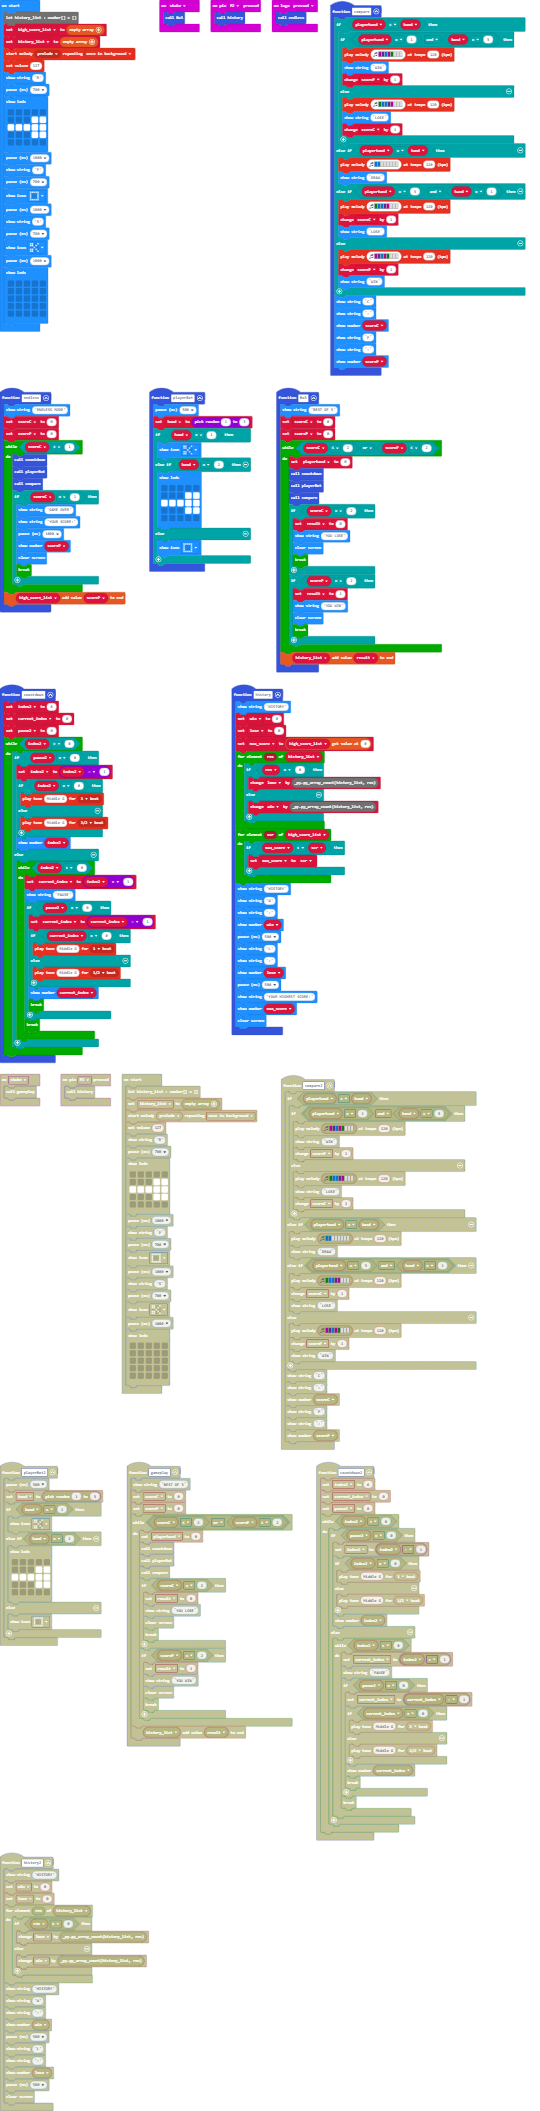
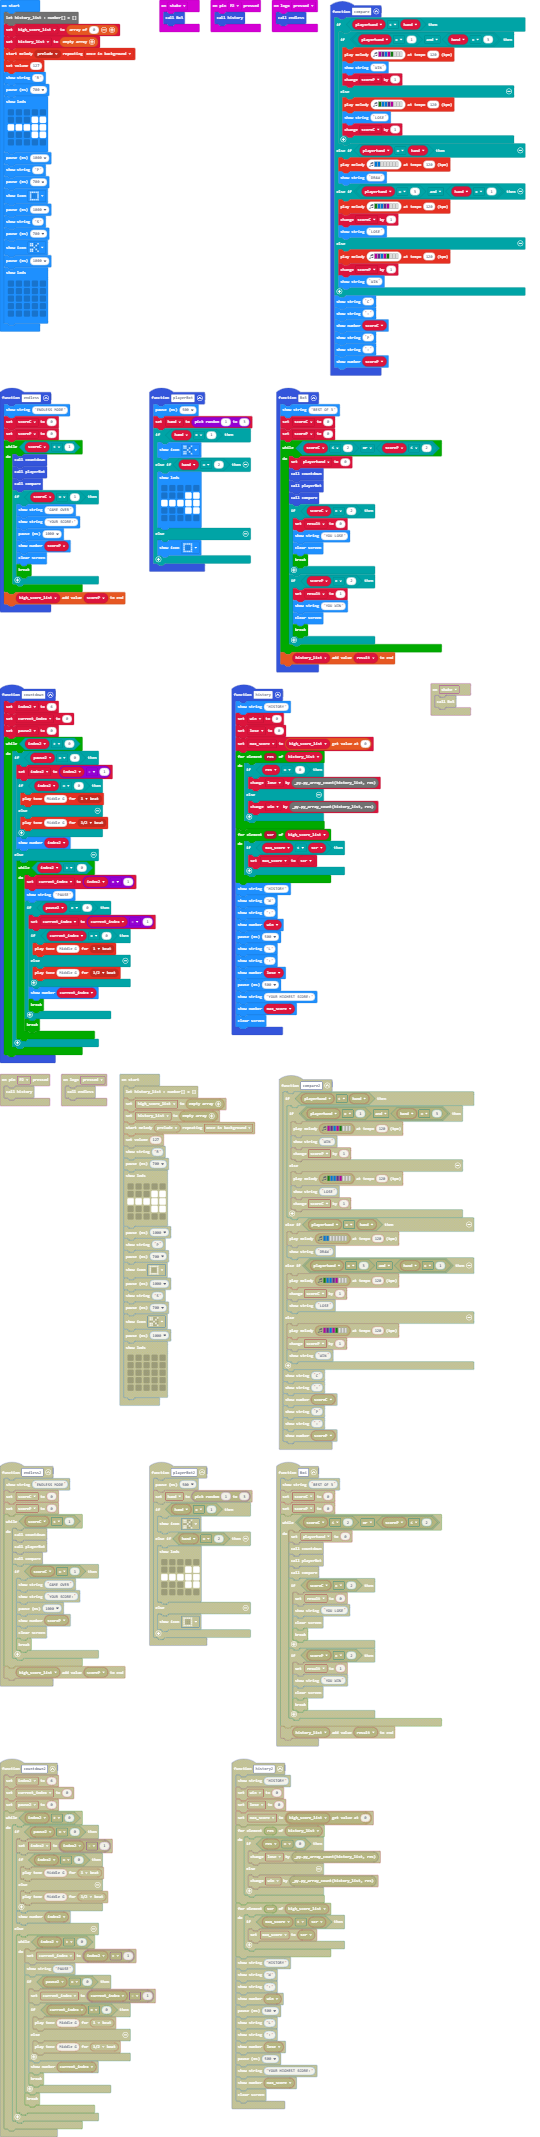
fix high_score_list

Changed region(s): [[0.0, 0.0, 0.9778, 1.0], [0.2667, 0.1847, 0.4741, 0.2771]]

diff --git a/main.ts b/main.ts
@@ -196,7 +196,7 @@ let playerhand = 0
 let pause2 = 0
 let high_score_list: number[] = []
 let history_list : number[] = []
-high_score_list = []
+high_score_list = [0]
 history_list = []
 music.startMelody(music.builtInMelody(Melodies.Prelude), MelodyOptions.OnceInBackground)
 music.setVolume(127)

diff --git a/main.py b/main.py
@@ -92,7 +92,7 @@ def on_button_pressed_ab():
 input.on_button_pressed(Button.AB, on_button_pressed_ab)
 
 def history():
-    global win, lose
+    global win, lose, max_score
     basic.show_string("HISTORY")
     win = 0
     lose = 0
@@ -183,6 +183,7 @@ def endless():
             break
     high_score_list.append(scoreP)
 result = 0
+max_score = 0
 lose = 0
 win = 0
 current_index = 0
@@ -194,7 +195,7 @@ playerhand = 0
 pause2 = 0
 high_score_list: List[number] = []
 history_list: List[number] = []
-high_score_list = []
+high_score_list = [0]
 history_list = []
 music.start_melody(music.built_in_melody(Melodies.PRELUDE),
     MelodyOptions.ONCE_IN_BACKGROUND)
